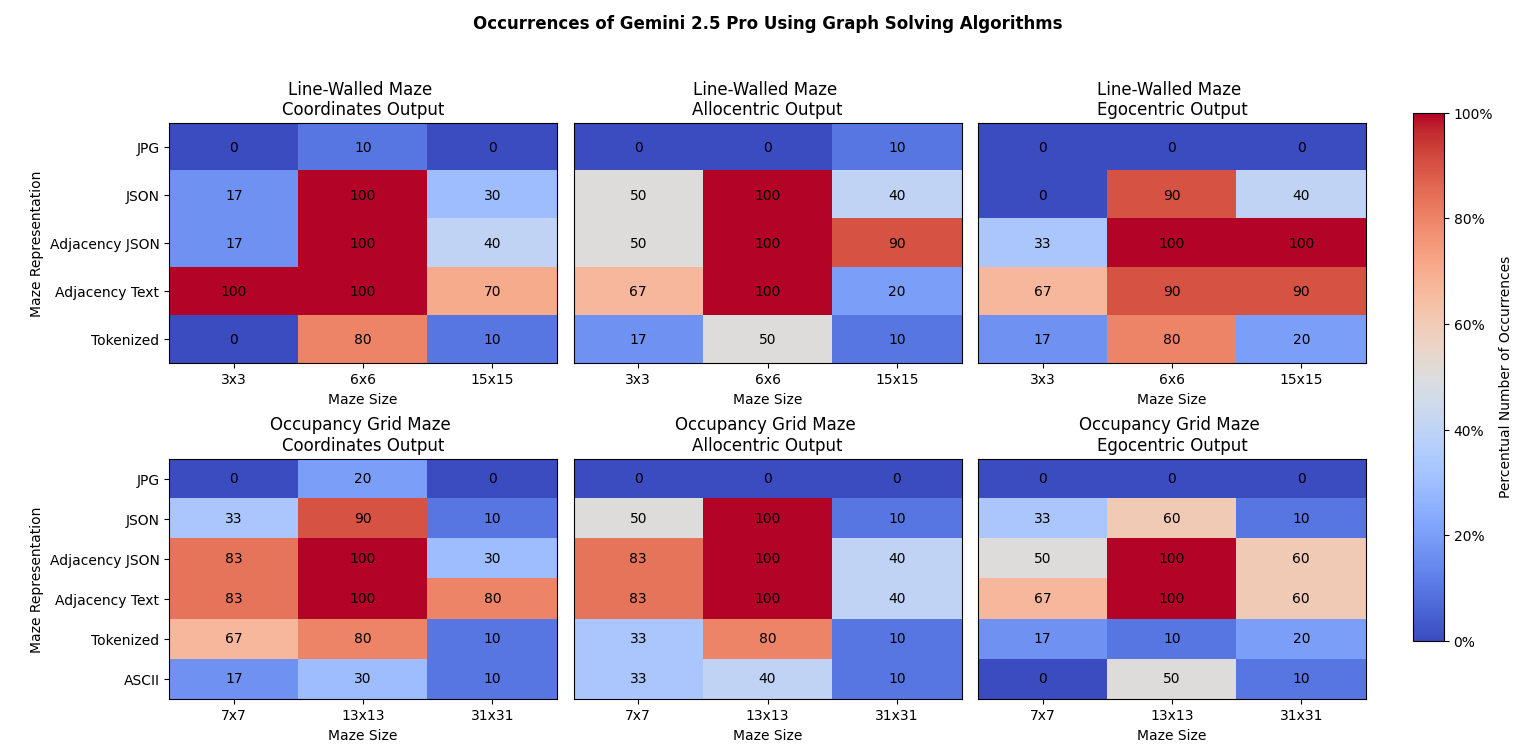
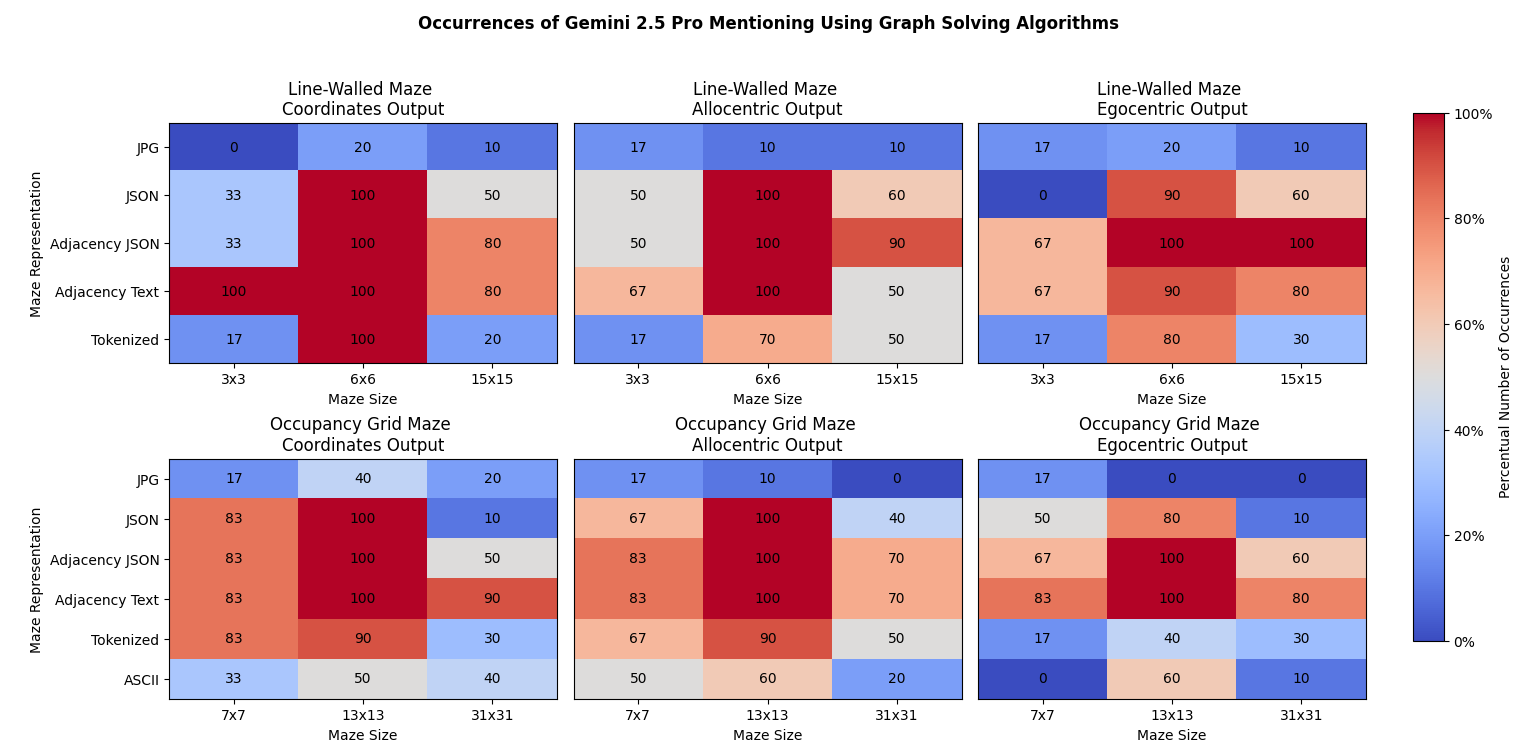
saved new version of heatmap

diff --git a/Charts_Dataset03/heatmap_Dataset03.py b/Charts_Dataset03/heatmap_Dataset03.py
@@ -247,7 +247,7 @@ cbar.ax.yaxis.set_major_formatter(mtick.PercentFormatter(100))
 
 # Figure title and layout
 fig.suptitle(
-    "Occurrences of Gemini 2.5 Pro Using Graph Solving Algorithms", # This is only done for reasoning because the NR does not show their work.
+    "Occurrences of Gemini 2.5 Pro Mentioning Using Graph Solving Algorithms", # This is only done for reasoning because the NR does not show their work.
     fontweight="bold"
 )
 
